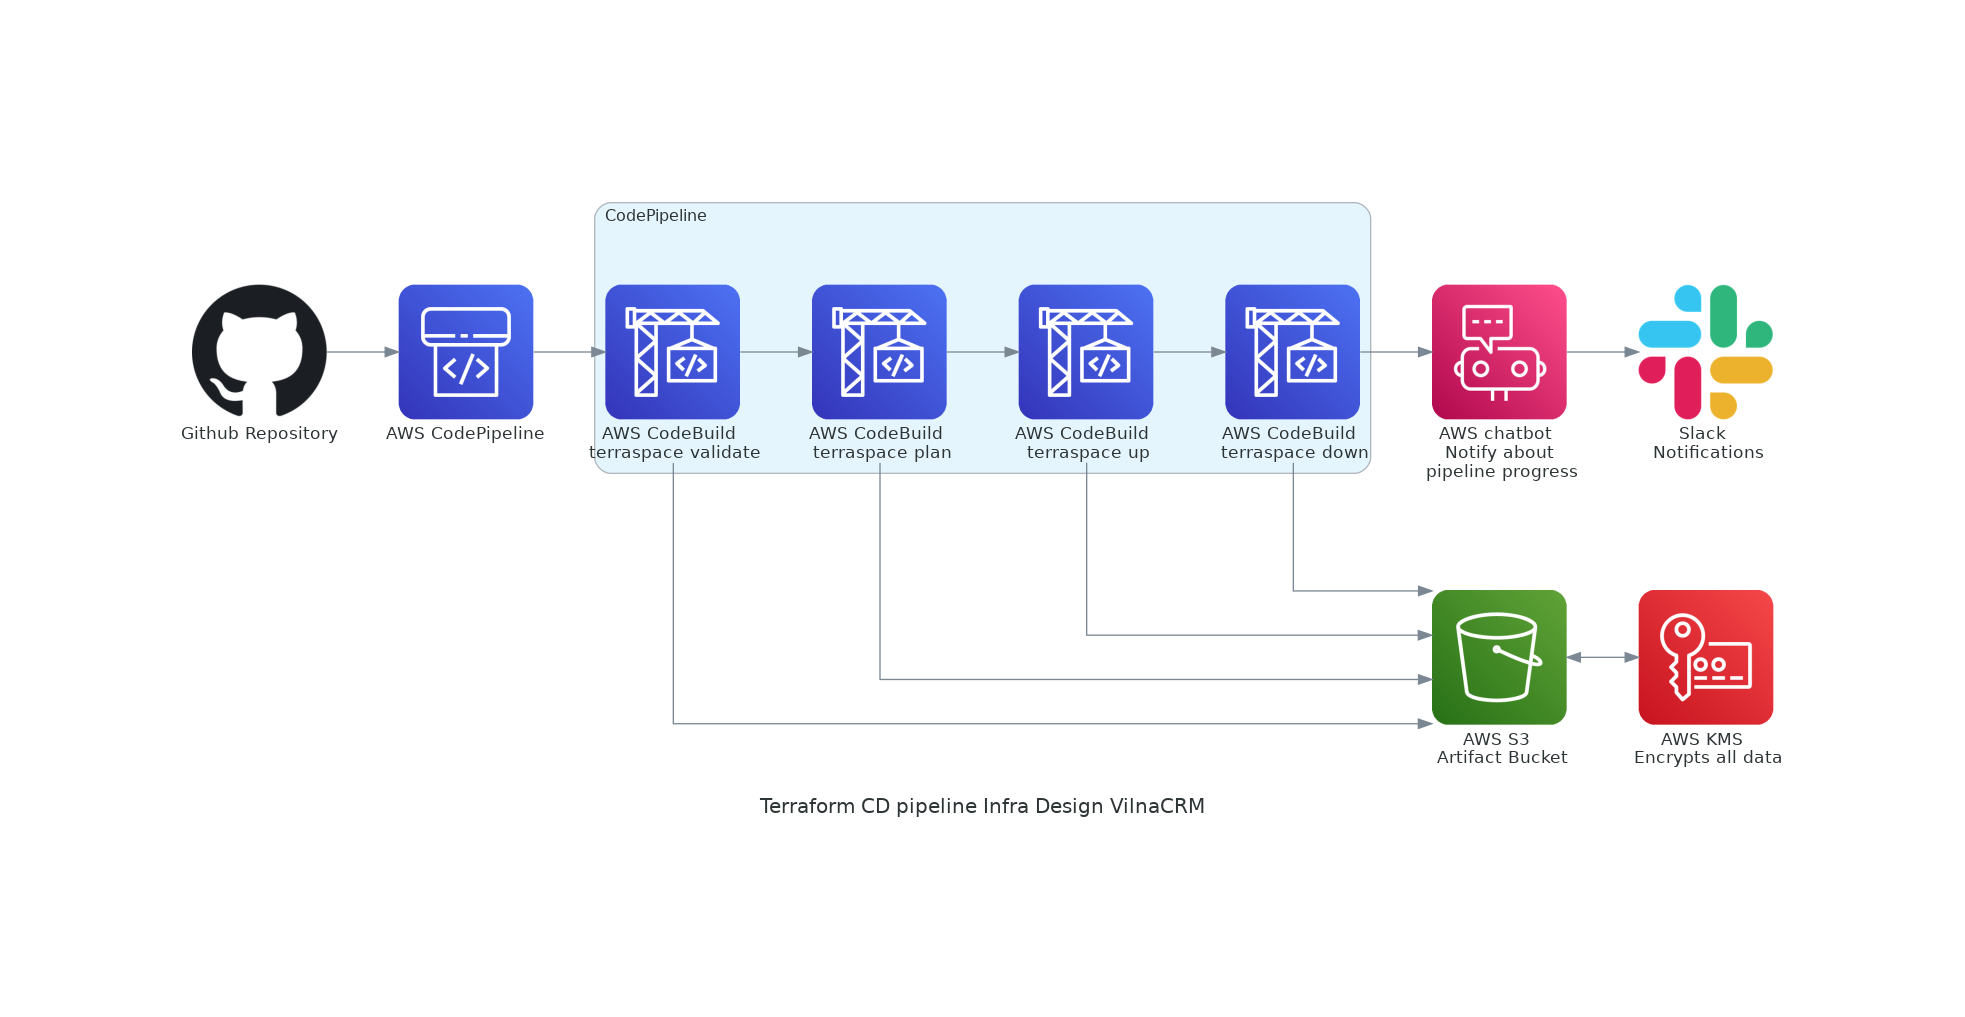
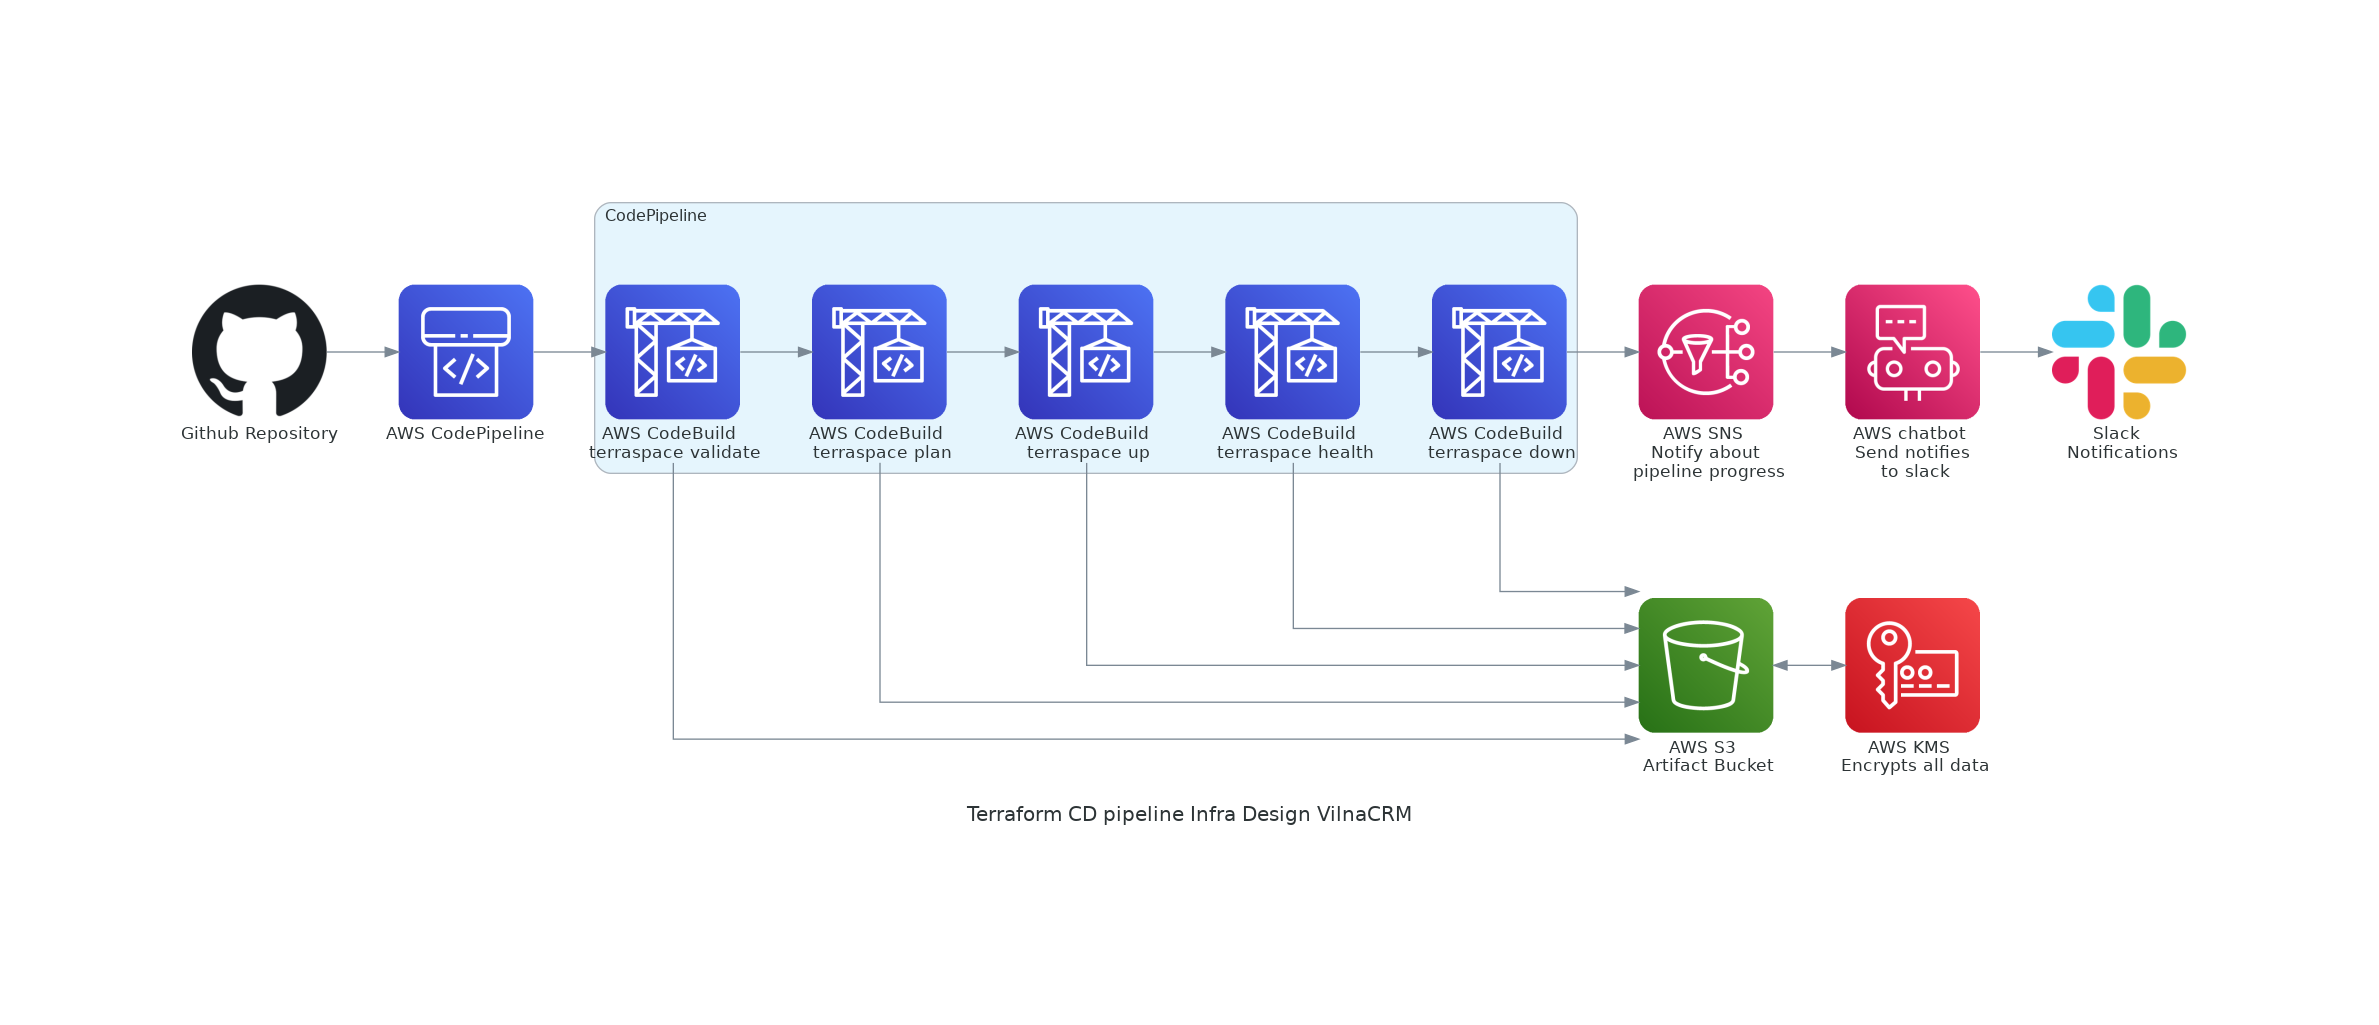
fix(#2): fix buildspecs and diagrams

Changed region(s): [[0.0621, 0.1829, 0.9313, 0.4877], [0.3415, 0.5792, 0.9003, 0.762], [0.4036, 0.762, 0.5898, 0.823]]

diff --git a/diagrams/py/terraform_cd_pipeline_infra_design.py b/diagrams/py/terraform_cd_pipeline_infra_design.py
@@ -4,6 +4,7 @@ from diagrams.aws.devtools import Codepipeline, Codebuild
 from diagrams.aws.security import KMS
 from diagrams.aws.storage import SimpleStorageServiceS3
 from diagrams.aws.management import Chatbot
+from diagrams.aws.integration import SNS
 from diagrams.saas.chat import Slack
 
 with Diagram("\nTerraform CD pipeline Infra Design VilnaCRM", show=False, filename="../img/terraform_cd_pipeline_infra_design"):
@@ -12,17 +13,19 @@ with Diagram("\nTerraform CD pipeline Infra Design VilnaCRM", show=False, filena
     s3 = SimpleStorageServiceS3("AWS S3 \n Artifact Bucket")
     codepipeCluster = Cluster("CodePipeline")
     kms = KMS("AWS KMS \n Encrypts all data")
-    chatbot = Chatbot("AWS chatbot \n Notify about \n pipeline progress")
+    chatbot = Chatbot("AWS chatbot \n Send notifies \n to slack")
+    sns = SNS("AWS SNS \n Notify about \n pipeline progress")
     
     with codepipeCluster:
           builders = [ Codebuild("AWS CodeBuild \n terraspace validate"),
           Codebuild("AWS CodeBuild \n terraspace plan"),
           Codebuild("AWS CodeBuild \n terraspace up"),
+          Codebuild("AWS CodeBuild \n terraspace health"),
           Codebuild("AWS CodeBuild \n terraspace down") ]
 
     gh >> codepipe
 
-    builders[0] >> builders[1] >> builders[2] >> builders[3]
+    builders[0] >> builders[1] >> builders[2] >> builders[3] >> builders[4]
 
     codepipe >> builders[0]
 
@@ -31,6 +34,8 @@ with Diagram("\nTerraform CD pipeline Infra Design VilnaCRM", show=False, filena
     
     s3 >> Edge() << kms
 
-    builders[3] >> chatbot
+    builders[4] >> sns
+
+    sns >> chatbot
 
     chatbot >> Slack("Slack \n Notifications")
